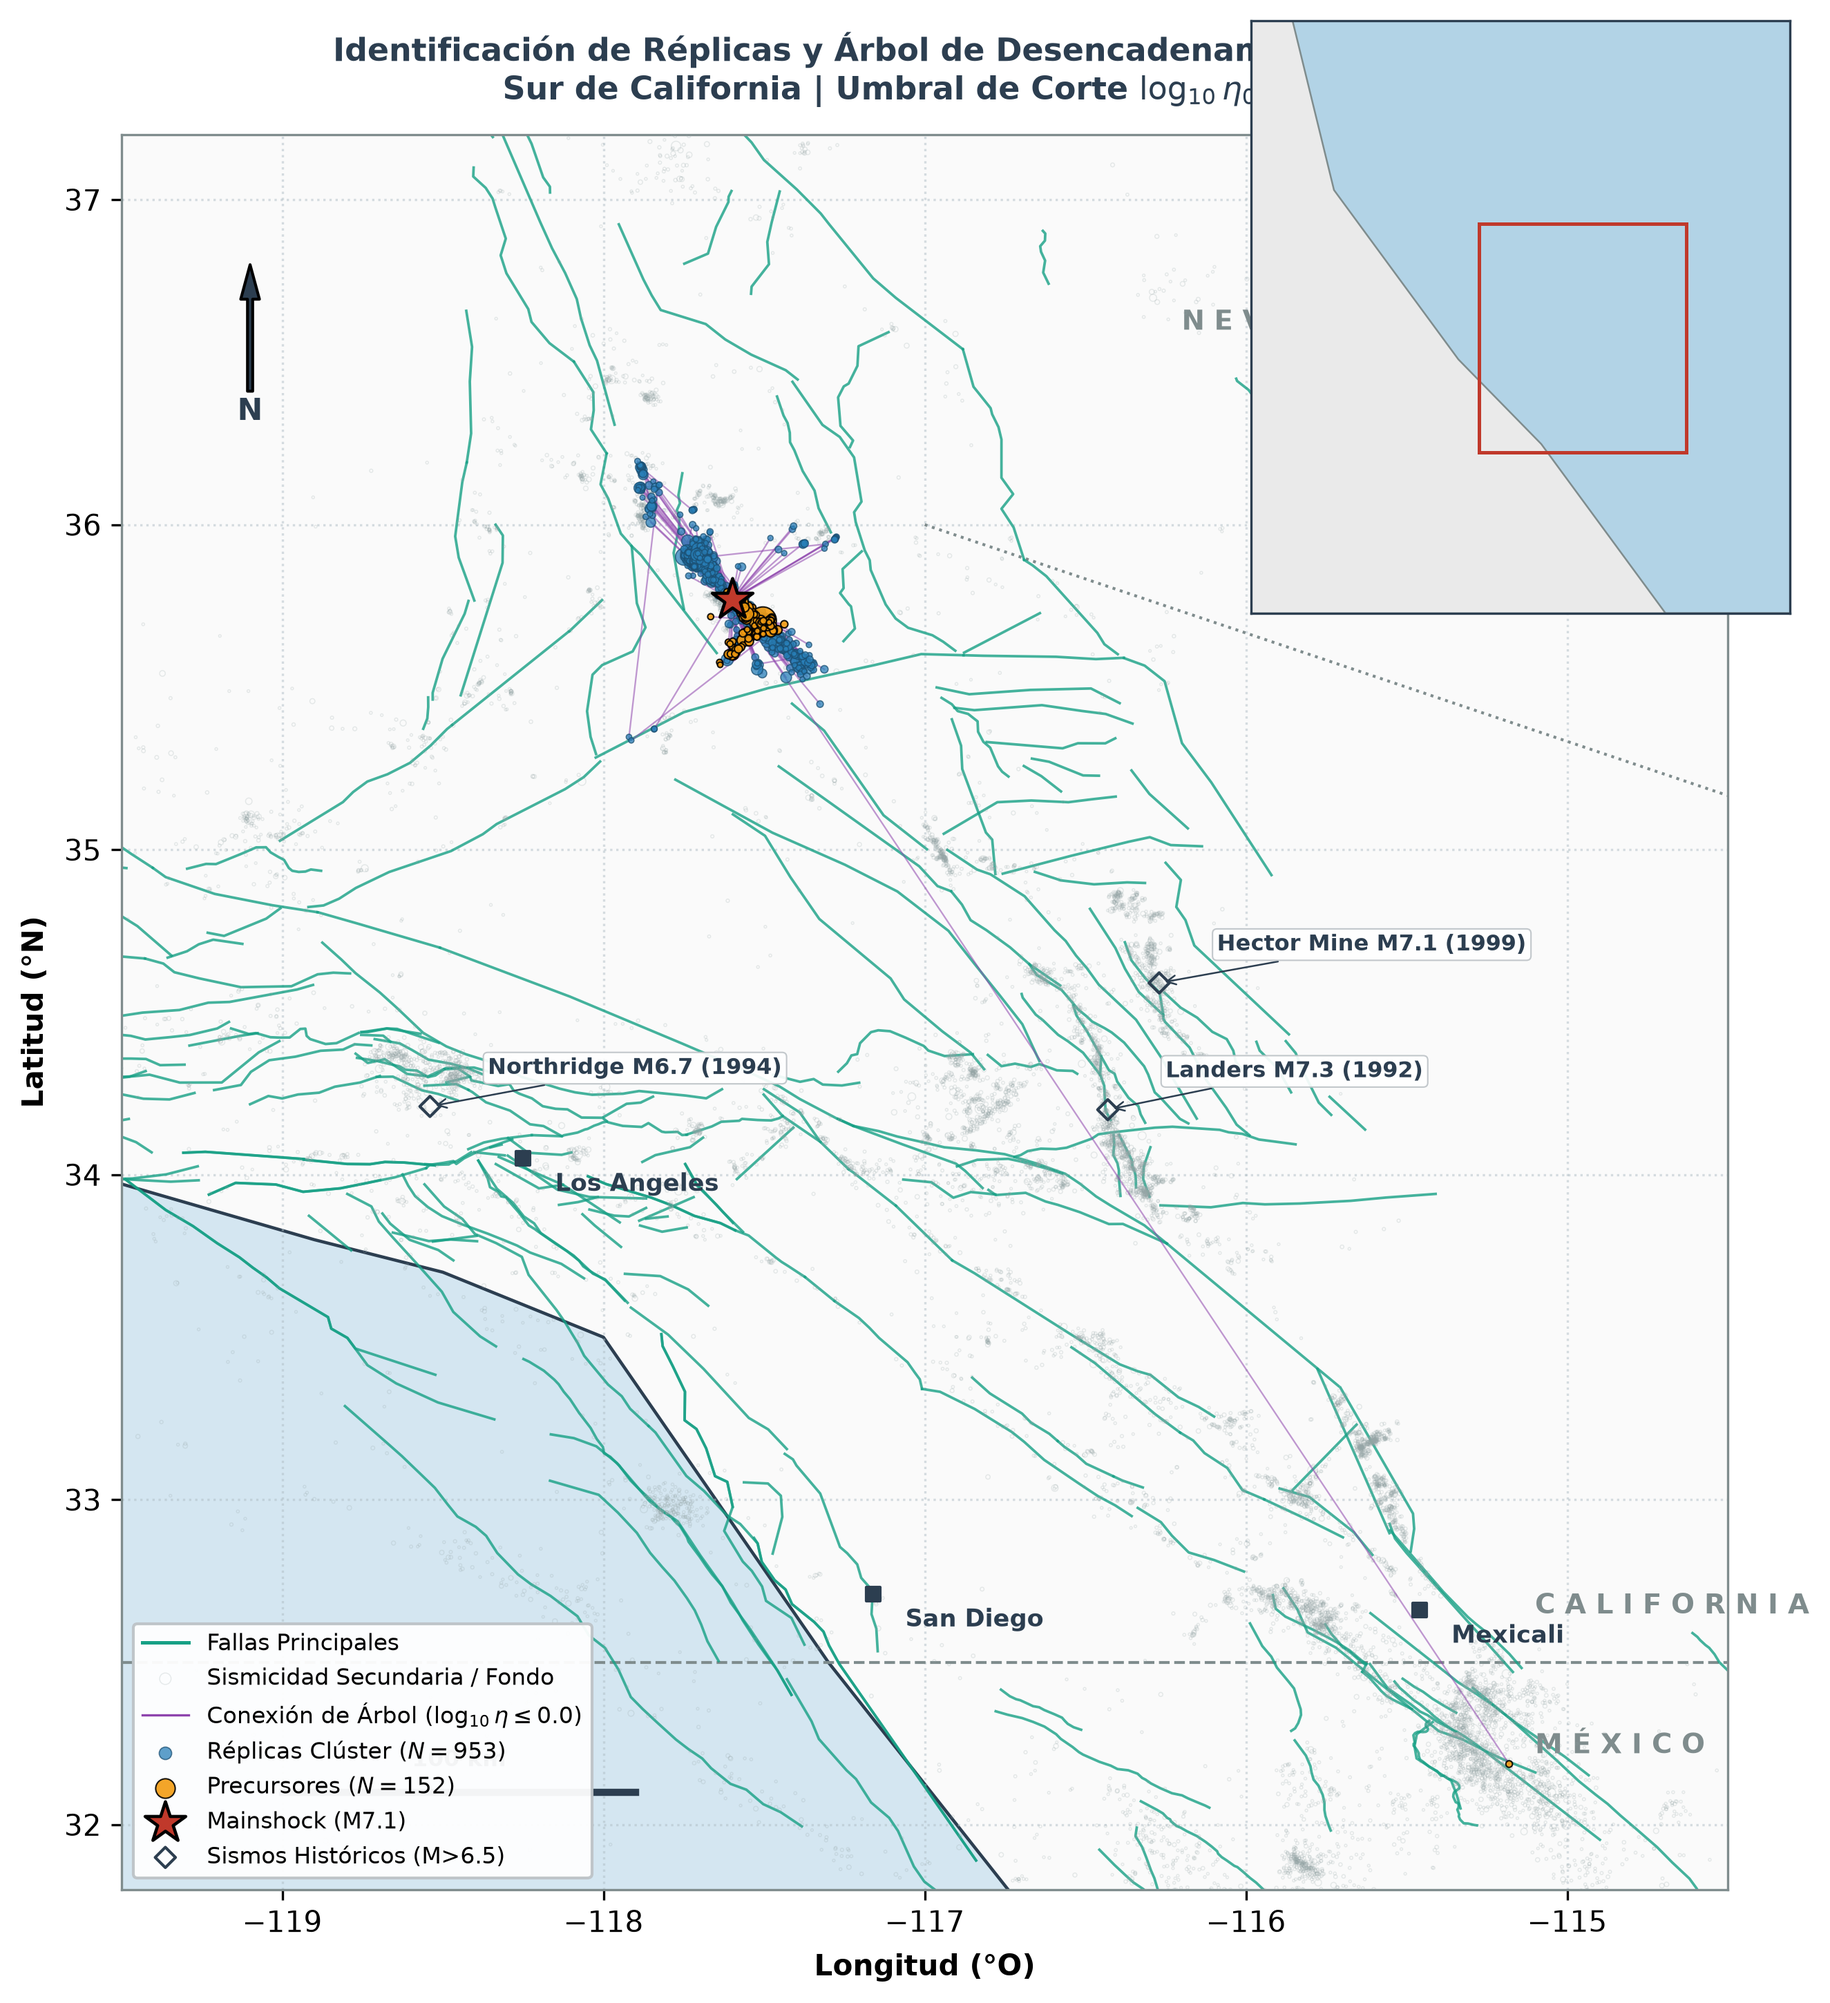
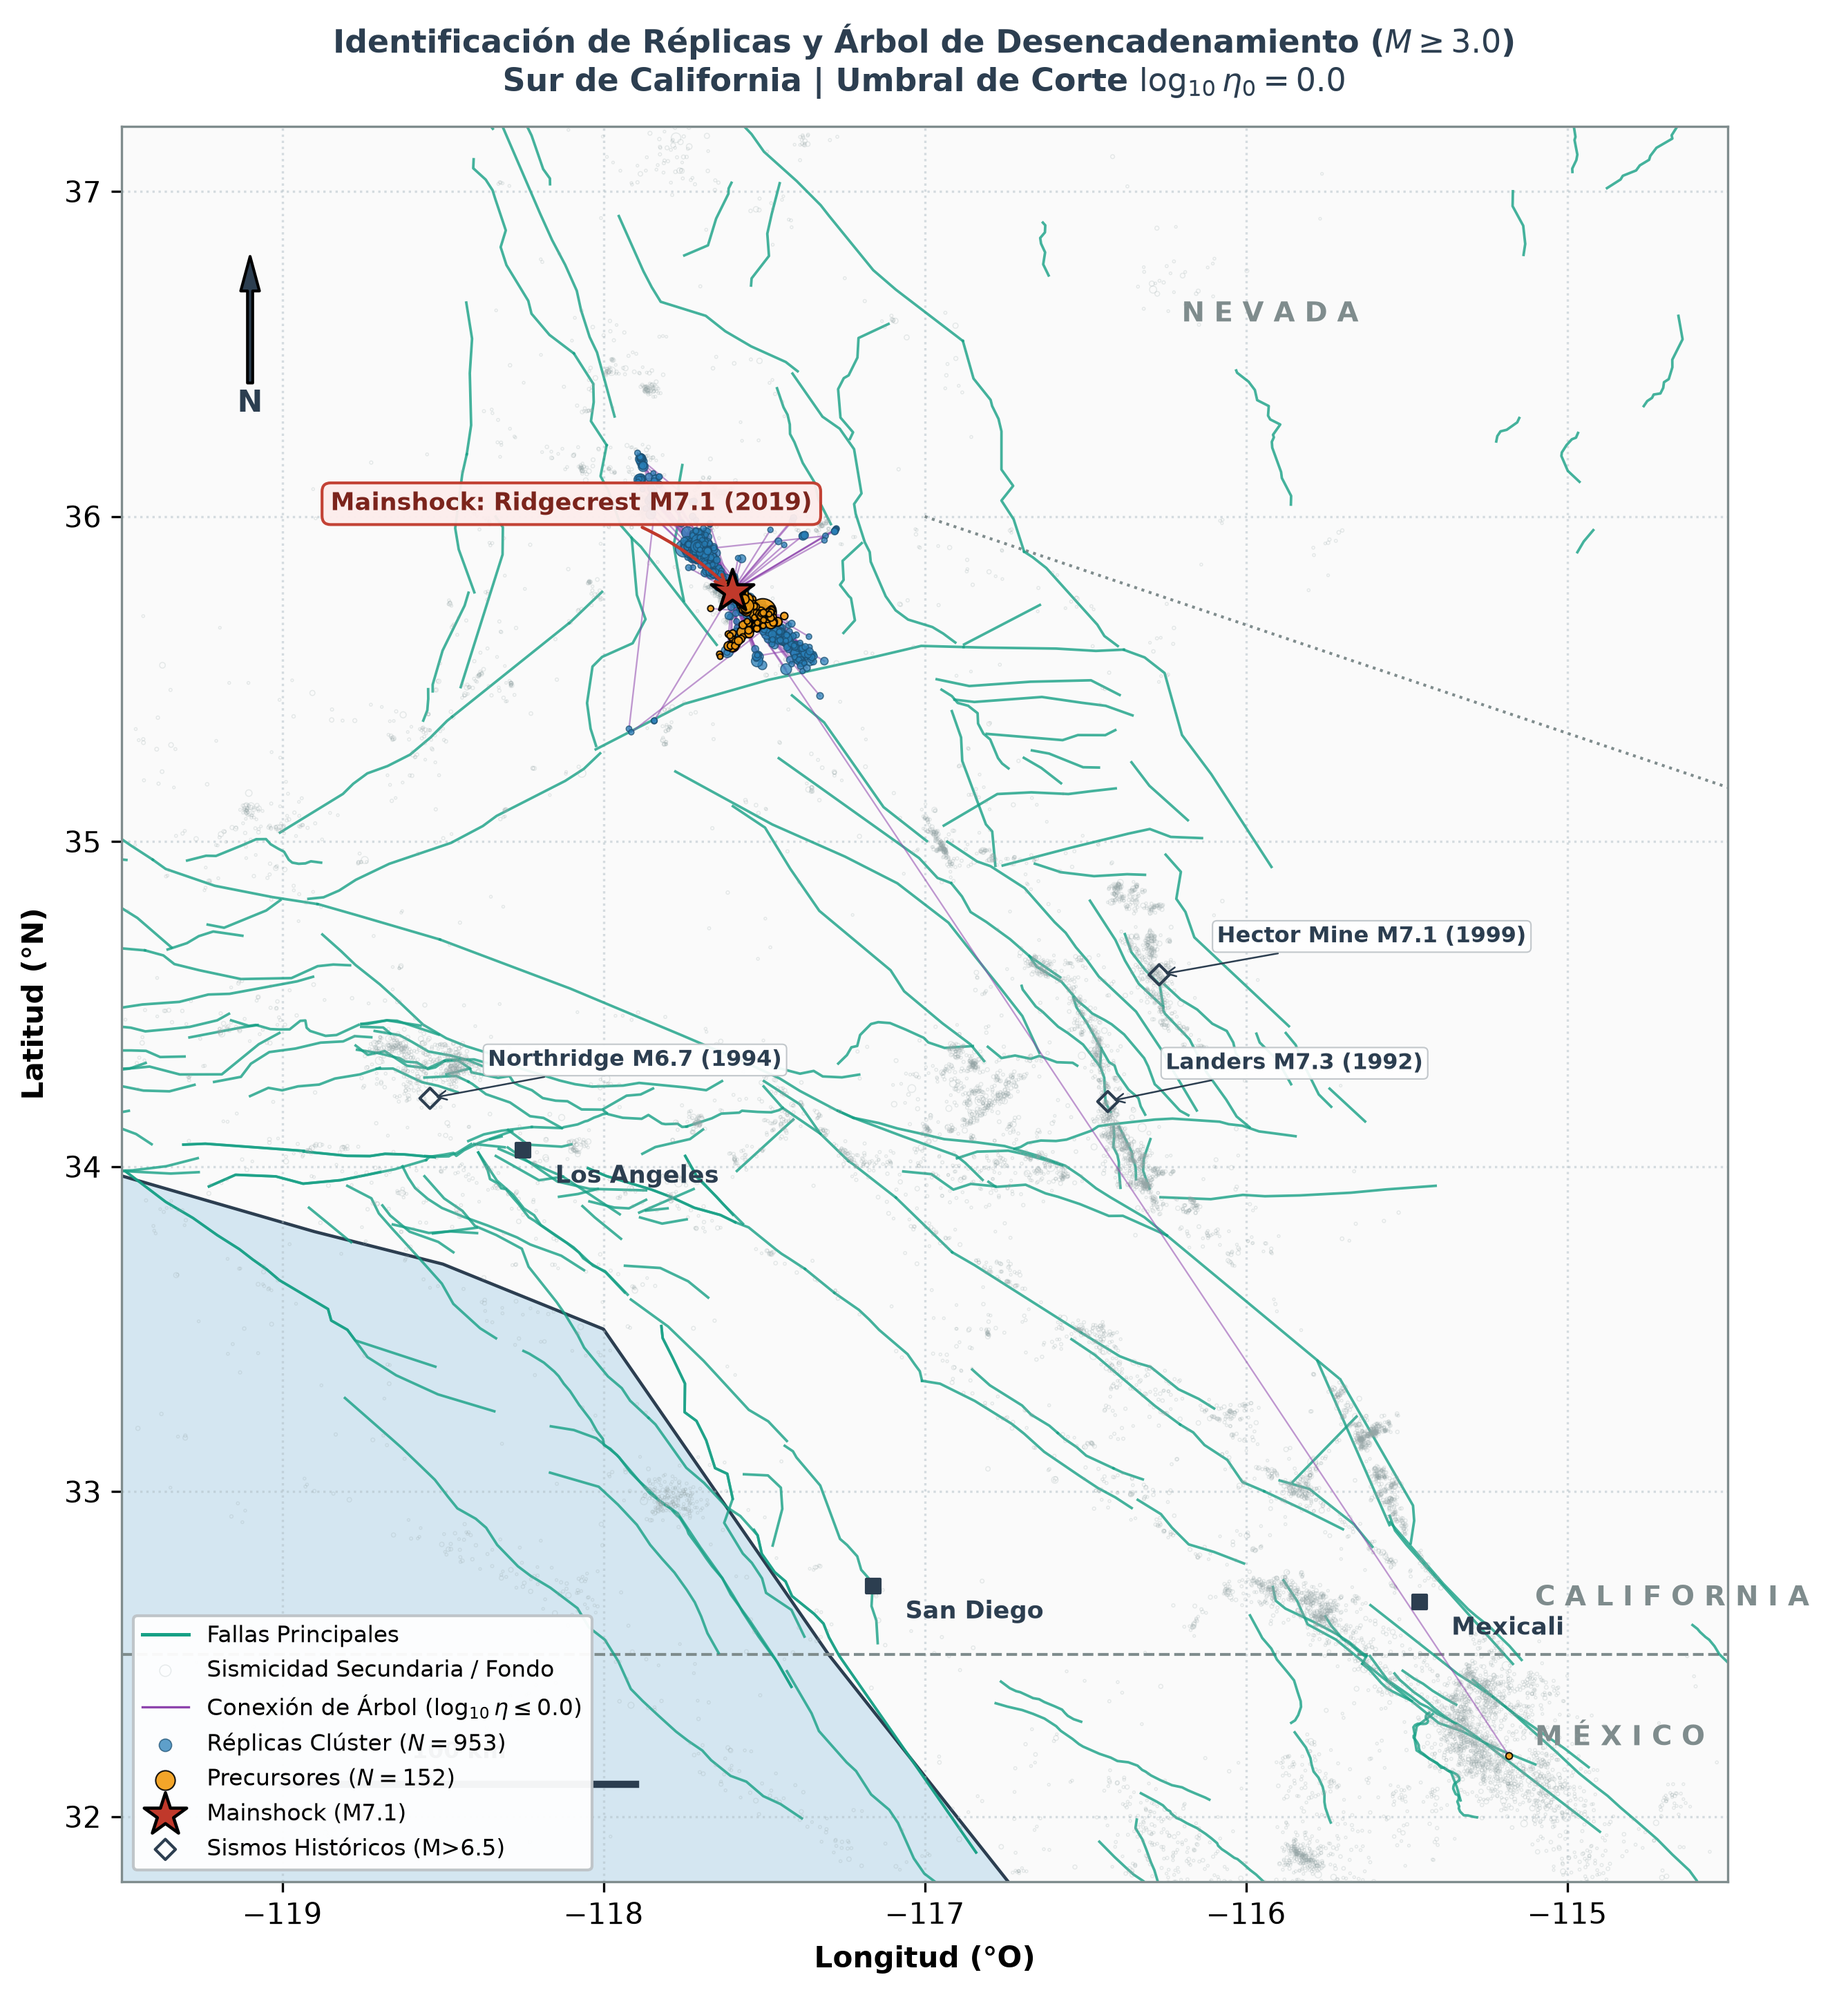
Nuevo mapa

diff --git a/TFG/Codigo/mapa_arbol.py b/TFG/Codigo/mapa_arbol.py
@@ -1,15 +1,14 @@
 # =====================================================================
-# MAPA CARTOGRÁFICO DE ALTA PRECISIÓN Y ÁRBOL DE ZALIAPIN (MEJORADO)
+# MAPA CARTOGRÁFICO DE ALTA PRECISIÓN Y ÁRBOL DE ZALIAPIN (SIN INSET MAP)
 # =====================================================================
 import os
 import json
 import numpy as np
 import pandas as pd
 import matplotlib.pyplot as plt
-import matplotlib.patches as mpatches
 import networkx as nx
 
-# Importar funciones de tus módulos locales
+# Importar funciones de los módulos locales
 try:
     from main import buscar_archivo_catalogo, cargar_catalogo_scedc
     from Zaliapin import calcular_zaliapin_nn
@@ -53,50 +52,15 @@ def cargar_fallas_geojson(ax, filepath="fallas.geojson", color='#16A085', linewi
         return False
 
 
-def agregar_inset_mapa(fig, bounds_main):
-    """
-    Genera el mapa de localización regional (Inset) en la esquina superior derecha.
-    """
-    # Posición del Inset: [left, bottom, width, height] en coordenadas de la figura
-    ax_inset = fig.add_axes([0.67, 0.67, 0.26, 0.26])
-    
-    # Límites regionales (Vista California / Baja California)
-    ax_inset.set_xlim(-125.0, -112.0)
-    ax_inset.set_ylim(28.0, 42.0)
-    
-    # Fondo del océano e interior del continente
-    ax_inset.set_facecolor('#B2D3E6')
-    
-    # Polígono simplificado regional de la costa oeste
-    coast_inset_x = [-125, -125, -124, -123, -120, -118, -115, -112, -112, -125]
-    coast_inset_y = [28, 42, 42, 38, 34, 32, 28, 28, 28, 28]
-    ax_inset.fill(coast_inset_x, coast_inset_y, color='#EAEAEA', edgecolor='#7F8C8D', lw=0.6)
-
-    # Encuadre en rojo del área de estudio principal
-    lon_min, lon_max, lat_min, lat_max = bounds_main
-    rect = mpatches.Rectangle(
-        (lon_min, lat_min), lon_max - lon_min, lat_max - lat_min,
-        fill=False, edgecolor='#C0392B', linewidth=1.2, zorder=5
-    )
-    ax_inset.add_patch(rect)
-    
-    # Formato del mini mapa
-    ax_inset.set_xticks([])
-    ax_inset.set_yticks([])
-    for spine in ax_inset.spines.values():
-        spine.set_color('#2C3E50')
-        spine.set_linewidth(0.8)
-
-
 def generar_mapa_profesional_zaliapin(df_raw, log10_eta_0=0.0, Mc=3.0, output_filename="figura_5_mapa_profesional.png"):
     """
-    Genera una representación cartográfica de precisión de California del Sur,
-    integrando fallas reales desde GeoJSON, mapa de localización y árbol de Zaliapin.
+    Genera una representación cartográfica de precisión para el TFG,
+    integrando fallas reales desde GeoJSON y etiquetado explícito del Mainshock.
     """
     print(f"\n[1/4] Filtrando catálogo para M >= {Mc}...")
     df = df_raw[df_raw['mag'] >= Mc].copy().reset_index(drop=True)
 
-    print("[2/4] Calculando métrica de Zaliapin y identificando clústeres...")
+    print("[2/4] Calculando métrica de Zaliapin e identificando clústeres...")
     a_cat, b_cat = fit_gutenberg_richter(df['mag'].values, Mc=Mc)
     b_val = b_cat if not np.isnan(b_cat) else 1.0
     df = calcular_zaliapin_nn(df, b=b_val, d=1.6, m0=Mc)
@@ -120,15 +84,13 @@ def generar_mapa_profesional_zaliapin(df_raw, log10_eta_0=0.0, Mc=3.0, output_fi
     ax.set_xlim(lon_min, lon_max)
     ax.set_ylim(lat_min, lat_max)
 
-    # Color del Océano Pacífico y Continente
-    ax.set_facecolor('#D4E6F1')  # Azul agua suave
+    ax.set_facecolor('#D4E6F1')  # Océano Pacífico
 
-    # Polígono costero continuo mejorado
+    # Polígono costero
     coast_lon = [-120.5, -120.0, -119.6, -118.9, -118.5, -118.0, -117.3, -116.5, -114.0, -114.0, -120.5]
     coast_lat = [35.5, 34.8, 34.0, 33.8, 33.7, 33.5, 32.5, 31.5, 31.5, 37.5, 37.5]
     ax.fill(coast_lon, coast_lat, color='#FAFAFA', zorder=0, edgecolor='none')
 
-    # Línea de costa
     ax.plot([-120.5, -120.0, -119.6, -118.9, -118.5, -118.0, -117.3, -116.5], 
             [35.5, 34.8, 34.0, 33.8, 33.7, 33.5, 32.5, 31.5], 
             color='#2C3E50', lw=1.1, zorder=1)
@@ -136,19 +98,15 @@ def generar_mapa_profesional_zaliapin(df_raw, log10_eta_0=0.0, Mc=3.0, output_fi
     # -----------------------------------------------------------------
     # 2. FRONTERAS Y FALLAS GEOLÓGICAS (DESDE GEOJSON)
     # -----------------------------------------------------------------
-    # Frontera Internacional México-EE.UU.
     ax.axhline(y=32.5, color='#7F8C8D', linestyle='--', linewidth=1.0, zorder=2)
     ax.text(-115.1, 32.22, "M É X I C O", fontsize=9.5, fontweight='bold', color='#7F8C8D')
     ax.text(-115.1, 32.65, "C A L I F O R N I A", fontsize=9.5, fontweight='bold', color='#7F8C8D')
 
-    # Límite estatal con Nevada
     ax.plot([-117.0, -114.0], [36.0, 35.0], color='#7F8C8D', linestyle=':', lw=1.0, zorder=2)
     ax.text(-116.2, 36.6, "N E V A D A", fontsize=9.5, fontweight='bold', color='#7F8C8D')
 
-    # Cargar trazas reales de fallas desde GeoJSON
     fallas_cargadas = cargar_fallas_geojson(ax, filepath="fallas.geojson", color='#16A085', linewidth=0.9, alpha=0.8)
 
-    # Si no hay archivo GeoJSON, usar fallas principales de respaldo
     if not fallas_cargadas:
         COLOR_FALLAS = '#16A085'
         ax.plot([-119.5, -118.5, -117.5, -116.3, -115.5], [35.3, 34.5, 34.2, 33.5, 33.0], 
@@ -156,7 +114,6 @@ def generar_mapa_profesional_zaliapin(df_raw, log10_eta_0=0.0, Mc=3.0, output_fi
         ax.plot([-117.3, -116.8, -116.0], [34.3, 33.8, 33.0], color=COLOR_FALLAS, lw=1.2, zorder=2)
         ax.plot([-118.5, -117.5, -116.8], [34.8, 35.4, 35.6], color=COLOR_FALLAS, lw=1.2, zorder=2)
     else:
-        # Dummy plot para la leyenda cuando se cargan vía GeoJSON
         ax.plot([], [], color='#16A085', lw=1.2, label='Fallas Principales')
 
     # -----------------------------------------------------------------
@@ -172,7 +129,6 @@ def generar_mapa_profesional_zaliapin(df_raw, log10_eta_0=0.0, Mc=3.0, output_fi
     # -----------------------------------------------------------------
     # 4. ÁRBOL DE ZALIAPIN Y EVENTOS CLASIFICADOS
     # -----------------------------------------------------------------
-    # Conexiones del árbol (Líneas moradas)
     G_sub = nx.DiGraph()
     indices_cluster = set(df_cluster.index)
     for idx, row in df_cluster.iterrows():
@@ -185,10 +141,9 @@ def generar_mapa_profesional_zaliapin(df_raw, log10_eta_0=0.0, Mc=3.0, output_fi
         lon2, lat2 = df.loc[v, 'lon'], df.loc[v, 'lat']
         ax.plot([lon1, lon2], [lat1, lat2], color='#8E44AD', lw=0.55, alpha=0.55, zorder=4)
 
-    # Dummy line para la leyenda del árbol
     ax.plot([], [], color='#8E44AD', lw=0.8, label=r'Conexión de Árbol ($\log_{10}\eta \leq 0.0$)')
 
-    # Réplicas del clúster
+    # Réplicas
     df_after = df_cluster[df_cluster['event_type'] == 'aftershock']
     sizes_af = 3.2 * np.exp(0.95 * (df_after['mag'] - Mc))
     ax.scatter(df_after['lon'], df_after['lat'], s=sizes_af, 
@@ -204,9 +159,23 @@ def generar_mapa_profesional_zaliapin(df_raw, log10_eta_0=0.0, Mc=3.0, output_fi
                    alpha=0.9, label=f'Precursores ($N={len(df_fore)}$)', zorder=6)
 
     # Evento Principal (Mainshock)
-    ax.scatter(ms_row['lon'], ms_row['lat'], s=220, facecolors='#C0392B', 
+    ax.scatter(ms_row['lon'], ms_row['lat'], s=240, facecolors='#C0392B', 
                edgecolors='black', marker='*', lw=1.1, 
                label=f'Mainshock (M{ms_row["mag"]:.1f})', zorder=7)
+
+    # Anotación destacada del Mainshock
+    label_mainshock = f"Mainshock: Ridgecrest M{ms_row['mag']:.1f} (2019)"
+    ax.annotate(
+        label_mainshock, 
+        xy=(ms_row['lon'], ms_row['lat']),
+        xytext=(ms_row['lon'] - 1.25, ms_row['lat'] + 0.25),
+        fontsize=8.5, 
+        fontweight='bold', 
+        color='#7B241C',
+        bbox=dict(boxstyle="round,pad=0.35", fc="#FDEDEC", ec="#C0392B", lw=1.0, alpha=0.95),
+        arrowprops=dict(arrowstyle="->", connectionstyle="arc3,rad=-0.15", color='#C0392B', lw=1.1),
+        zorder=9
+    )
 
     # -----------------------------------------------------------------
     # 5. TERREMOTOS HISTÓRICOS Y CIUDADES
@@ -225,7 +194,6 @@ def generar_mapa_profesional_zaliapin(df_raw, log10_eta_0=0.0, Mc=3.0, output_fi
                     arrowprops=dict(arrowstyle="->", connectionstyle="arc3,rad=0", color='#2C3E50', lw=0.6),
                     zorder=8)
 
-    # Dummy para terremotos históricos en la leyenda
     ax.scatter([], [], marker='D', s=25, facecolors='none', edgecolors='#2C3E50', label='Sismos Históricos (M>6.5)')
 
     ciudades = [
@@ -238,22 +206,19 @@ def generar_mapa_profesional_zaliapin(df_raw, log10_eta_0=0.0, Mc=3.0, output_fi
         ax.text(c['lon'] + 0.1, c['lat'] - 0.10, c['nombre'], fontsize=8.5, fontweight='bold', color='#2C3E50', zorder=8)
 
     # -----------------------------------------------------------------
-    # 6. ELEMENTOS CARTOGRÁFICOS (ROSA DE LOS VIENTOS Y ESCALA)
+    # 6. ELEMENTOS CARTOGRÁFICOS
     # -----------------------------------------------------------------
     # Flecha Norte
     ax.annotate('N', xy=(-119.1, 36.8), xytext=(-119.1, 36.3),
                 ha='center', va='bottom', fontsize=10.5, fontweight='bold', color='#2C3E50',
                 arrowprops=dict(facecolor='#2C3E50', width=1.8, headwidth=6.5), zorder=9)
 
-    # Escala de 100 km
+    # Escala
     ax.plot([-119.0, -117.9], [32.1, 32.1], color='#2C3E50', lw=2.5, zorder=9)
     ax.text(-118.45, 32.18, "100 km", ha='center', fontsize=8.0, fontweight='bold', color='#2C3E50', zorder=9)
 
-    # Inset regional
-    agregar_inset_mapa(fig, (lon_min, lon_max, lat_min, lat_max))
-
     # -----------------------------------------------------------------
-    # 7. TÍTULO, LEYENDA Y FORMATO FINAL
+    # 7. TÍTULO Y LEYENDA
     # -----------------------------------------------------------------
     ax.set_xlabel('Longitud (°O)', fontsize=10, fontweight='bold', labelpad=5)
     ax.set_ylabel('Latitud (°N)', fontsize=10, fontweight='bold', labelpad=5)
@@ -272,7 +237,7 @@ def generar_mapa_profesional_zaliapin(df_raw, log10_eta_0=0.0, Mc=3.0, output_fi
         spine.set_linewidth(0.8)
 
     plt.savefig(output_filename, dpi=300, bbox_inches='tight')
-    print(f"[ÉXITO] Mapa profesional generado y guardado en '{output_filename}'")
+    print(f"[ÉXITO] Figura guardada como '{output_filename}'")
     plt.close()
 
 
